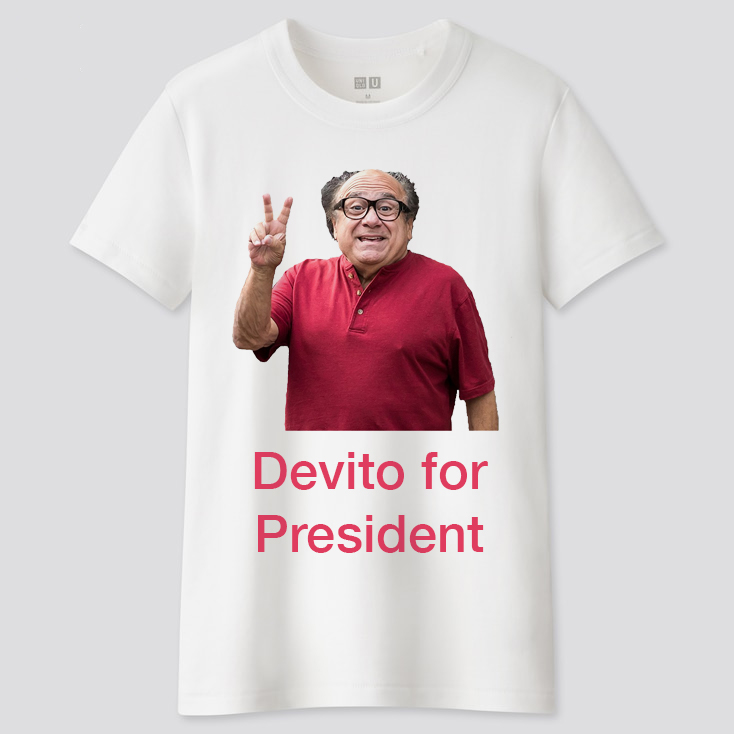
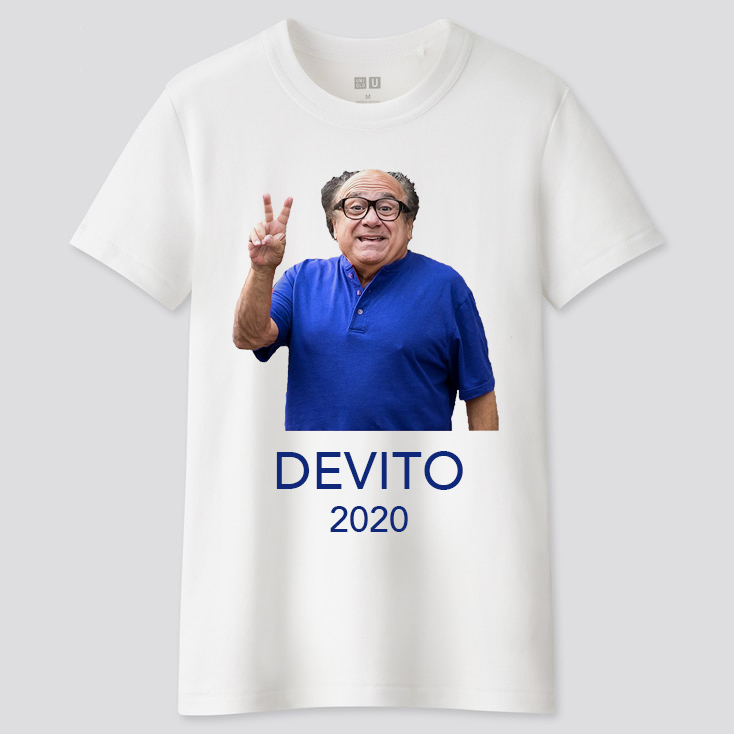
new merch

Changed region(s): [[0.3297, 0.3297, 0.6894, 0.7493]]

diff --git a/events.html b/events.html
@@ -88,13 +88,13 @@ $(window).scroll(function(){
 		switch (s)
 		{
 			case "California": 
-				output.innerHTML = "<section><h1>DeVito 2020 Phonebank in Los Angeles, CA</h1><p> Come together with friends, family, and neighbors to call voters in support of Devito! Phonebanking is one of the most important things you can do to help our campaign win. Every call helps us grow our movement, turn Devito supporters out to vote, and win this election in a landslide.</p></section><section><h1>DeVito 2020 Phonebank in San Fransisco, CA</h1><p> Come together with friends, family, and neighbors to call voters in support of DeVito! Phonebanking is one of the most important things you can do to help our campaign win. Every call helps us grow our movement, turn Devito supporters out to vote, and win this election in a landslide.</p></section><section><h1>Devito 2020 Phonebank in Santa Barbara, CA</h1><p> Come together with friends, family, and neighbors to call voters in support of DeVito! Phonebanking is one of the most important things you can do to help our campaign win. Every call helps us grow our movement, turn Devito supporters out to vote, and win this election in a landslide.</p></section>";
+				output.innerHTML = "<section><h1>DeVito 2020 Phonebank in Los Angeles, CA</h1><p> Come together with friends, family, and neighbors to call voters in support of DeVito! Phonebanking is one of the most important things you can do to help our campaign win. Every call helps us grow our movement, turn DeVito supporters out to vote, and win this election in a landslide.</p></section><section><h1>DeVito 2020 Phonebank in San Fransisco, CA</h1><p> Come together with friends, family, and neighbors to call voters in support of DeVito! Phonebanking is one of the most important things you can do to help our campaign win. Every call helps us grow our movement, turn DeVito supporters out to vote, and win this election in a landslide.</p></section><section><h1>DeVito 2020 Phonebank in Santa Barbara, CA</h1><p> Come together with friends, family, and neighbors to call voters in support of DeVito! Phonebanking is one of the most important things you can do to help our campaign win. Every call helps us grow our movement, turn DeVito supporters out to vote, and win this election in a landslide.</p></section>";
 				break;
 			case "Massachusetts":
-				output.innerHTML = "<section><h1>DeVito 2020 Phonebank in Malden, MA</h1><p> Come together with friends, family, and neighbors to call voters in support of Devito! Phonebanking is one of the most important things you can do to help our campaign win. Every call helps us grow our movement, turn Devito supporters out to vote, and win this election in a landslide.</p></section><section><h1>Devito 2020 Phonebank in Somerville, MA</h1><p> Come together with friends, family, and neighbors to call voters in support of Devito! Phonebanking is one of the most important things you can do to help our campaign win. Every call helps us grow our movement, turn Devito supporters out to vote, and win this election in a landslide.</p></section><section><h1>Devito 2020 Phonebank in Braintree, MA</h1><p> Come together with friends, family, and neighbors to call voters in support of Devito! Phonebanking is one of the most important things you can do to help our campaign win. Every call helps us grow our movement, turn Devito supporters out to vote, and win this election in a landslide.</p></section>";
+				output.innerHTML = "<section><h1>DeVito 2020 Phonebank in Malden, MA</h1><p> Come together with friends, family, and neighbors to call voters in support of DeVito! Phonebanking is one of the most important things you can do to help our campaign win. Every call helps us grow our movement, turn DeVito supporters out to vote, and win this election in a landslide.</p></section><section><h1>DeVito 2020 Phonebank in Somerville, MA</h1><p> Come together with friends, family, and neighbors to call voters in support of DeVito! Phonebanking is one of the most important things you can do to help our campaign win. Every call helps us grow our movement, turn DeVito supporters out to vote, and win this election in a landslide.</p></section><section><h1>DeVito 2020 Phonebank in Braintree, MA</h1><p> Come together with friends, family, and neighbors to call voters in support of DeVito! Phonebanking is one of the most important things you can do to help our campaign win. Every call helps us grow our movement, turn DeVito supporters out to vote, and win this election in a landslide.</p></section>";
 				break;
 			case "New Jersey":
-				output.innerHTML = "<section><h1>Devito 2020 Phonebank in Newark, NJ</h1><p> Come together with friends, family, and neighbors to call voters in support of Devito! Phonebanking is one of the most important things you can do to help our campaign win. Every call helps us grow our movement, turn Devito supporters out to vote, and win this election in a landslide.</p></section><section><h1>Devito 2020 Phonebank in Trenton, NJ</h1><p> Come together with friends, family, and neighbors to call voters in support of Devito! Phonebanking is one of the most important things you can do to help our campaign win. Every call helps us grow our movement, turn Devito supporters out to vote, and win this election in a landslide.</p></section><section><h1>Devito 2020 Phonebank in Paterson, NJ</h1><p> Come together with friends, family, and neighbors to call voters in support of Devito! Phonebanking is one of the most important things you can do to help our campaign win. Every call helps us grow our movement, turn Devito supporters out to vote, and win this election in a landslide.</p></section>";
+				output.innerHTML = "<section><h1>DeVito 2020 Phonebank in Newark, NJ</h1><p> Come together with friends, family, and neighbors to call voters in support of DeVito! Phonebanking is one of the most important things you can do to help our campaign win. Every call helps us grow our movement, turn DeVito supporters out to vote, and win this election in a landslide.</p></section><section><h1>DeVito 2020 Phonebank in Trenton, NJ</h1><p> Come together with friends, family, and neighbors to call voters in support of DeVito! Phonebanking is one of the most important things you can do to help our campaign win. Every call helps us grow our movement, turn DeVito supporters out to vote, and win this election in a landslide.</p></section><section><h1>DeVito 2020 Phonebank in Paterson, NJ</h1><p> Come together with friends, family, and neighbors to call voters in support of DeVito! Phonebanking is one of the most important things you can do to help our campaign win. Every call helps us grow our movement, turn DeVito supporters out to vote, and win this election in a landslide.</p></section>";
 				break;
 			default:
 				output.innerHTML = "";

diff --git a/shop.html b/shop.html
@@ -88,69 +88,123 @@ $(window).scroll(function(){
 
 <div class="grid-container">
   	<div class="card">
-		<img src="images/shop1.jpg" alt="shop 1" style="width:100%">
-		<h2>Vote Danny Button</h2>
+		<img src="images/shop1.jpg" style="width:100%">
+		<h2>Peace Button</h2>
 		<p class="price">$4.00</p>
 		<button>Add to Cart</button>
   	</div>
   	<div class="card">
-  		<img src="images/shop2.jpg" alt="shop 2" style="width:100%">
-		<h2>White Shirt</h2>
+  		<img src="images/shop2.jpg" style="width:100%">
+		<h2> White Shirt </h2>
 		<p class="price">$20.00</p>
 		<button>Add to Cart</button>
 	</div>
 	<div class="card">
-		<img src="images/shop3.jpg" alt="shop 3" style="width:100%">
-		<h2>Black Shirt</h2>
+		<img src="images/shop3.jpg" style="width:100%">
+		<h2> Black Shirt </h2>
 		<p class="price">$20.00</p>
 		<button>Add to Cart</button>
 	</div>  
 	<div class="card">
-		<img src="images/shop4.jpg" alt="shop 4" style="width:100%">
-		<h2>Cap</h2>
-		<p class="price">$15.00</p>
+		<img src="images/shop4.jpg" style="width:100%">
+		<h2> DeVito 2020 Cap </h2>
+		<p class="price">$10.00</p>
 		<button>Add to Cart</button>
 	</div>
 	<div class="card">
-		<img src="images/shop1.jpg" alt="shop 4" style="width:100%">
-		<h2>Classic Danny Button</h2>
-		<p class="price">$1.99</p>
+		<img src="images/shop5.jpg" style="width:100%">
+		<h2>DeVito 2020 Button</h2>
+		<p class="price">$4.00</p>
 		<button>Add to Cart</button>
 	</div>
 	<div class="card">
-		<img src="images/shop1.jpg" alt="shop 4" style="width:100%">
-		<h2>Classic Danny Button</h2>
-		<p class="price">$1.99</p>
+		<img src="images/shop1.jpg" style="width:100%">
+		<h2>Peace Button</h2>
+		<p class="price">$4.00</p>
+		<button>Add to Cart</button>
+  	</div>
+  	<div class="card">
+  		<img src="images/shop2.jpg" style="width:100%">
+		<h2> White Shirt </h2>
+		<p class="price">$20.00</p>
 		<button>Add to Cart</button>
 	</div>
 	<div class="card">
-		<img src="images/shop1.jpg" alt="shop 4" style="width:100%">
-		<h2>Classic Danny Button</h2>
-		<p class="price">$1.99</p>
+		<img src="images/shop3.jpg" style="width:100%">
+		<h2> Black Shirt </h2>
+		<p class="price">$20.00</p>
+		<button>Add to Cart</button>
+	</div>  
+	<div class="card">
+		<img src="images/shop4.jpg" style="width:100%">
+		<h2> DeVito 2020 Cap </h2>
+		<p class="price">$10.00</p>
 		<button>Add to Cart</button>
 	</div>
 	<div class="card">
-		<img src="images/shop1.jpg" alt="shop 4" style="width:100%">
-		<h2>Classic Danny Button</h2>
-		<p class="price">$1.99</p>
+		<img src="images/shop5.jpg" style="width:100%">
+		<h2>DeVito 2020 Button</h2>
+		<p class="price">$4.00</p>
 		<button>Add to Cart</button>
 	</div>
 	<div class="card">
-		<img src="images/shop1.jpg" alt="shop 4" style="width:100%">
-		<h2>Classic Danny Button</h2>
-		<p class="price">$1.99</p>
+		<img src="images/shop1.jpg" style="width:100%">
+		<h2>Peace Button</h2>
+		<p class="price">$4.00</p>
+		<button>Add to Cart</button>
+  	</div>
+  	<div class="card">
+  		<img src="images/shop2.jpg" style="width:100%">
+		<h2> White Shirt </h2>
+		<p class="price">$20.00</p>
 		<button>Add to Cart</button>
 	</div>
 	<div class="card">
-		<img src="images/shop1.jpg" alt="shop 4" style="width:100%">
-		<h2>Classic Danny Button</h2>
-		<p class="price">$1.99</p>
+		<img src="images/shop3.jpg" style="width:100%">
+		<h2> Black Shirt </h2>
+		<p class="price">$20.00</p>
+		<button>Add to Cart</button>
+	</div>  
+	<div class="card">
+		<img src="images/shop4.jpg" style="width:100%">
+		<h2> DeVito 2020 Cap </h2>
+		<p class="price">$10.00</p>
 		<button>Add to Cart</button>
 	</div>
 	<div class="card">
-		<img src="images/shop1.jpg" alt="shop 4" style="width:100%">
-		<h2>Classic Danny Button</h2>
-		<p class="price">$1.99</p>
+		<img src="images/shop5.jpg" style="width:100%">
+		<h2>DeVito 2020 Button</h2>
+		<p class="price">$4.00</p>
+		<button>Add to Cart</button>
+	</div>
+	<div class="card">
+		<img src="images/shop1.jpg" style="width:100%">
+		<h2>Peace Button</h2>
+		<p class="price">$4.00</p>
+		<button>Add to Cart</button>
+  	</div>
+  	<div class="card">
+  		<img src="images/shop2.jpg" style="width:100%">
+		<h2> White Shirt </h2>
+		<p class="price">$20.00</p>
+		<button>Add to Cart</button>
+	</div>
+	<div class="card">
+		<img src="images/shop3.jpg" style="width:100%">
+		<h2> Black Shirt </h2>
+		<p class="price">$20.00</p>
+		<button>Add to Cart</button>
+	</div>  
+	<div class="card">
+		<img src="images/shop4.jpg" style="width:100%">
+		<h2> DeVito 2020 Cap </h2>
+		<p class="price">$10.00</p>
+		<button>Add to Cart</button>
+	</div>
+	<div class="card">
+		<img src="images/shop5.jpg" style="width:100%">
+		<h2>DeVito 2020 Button</h2>
+		<p class="price">$4.00</p>
 		<button>Add to Cart</button>
 	</div>
 </div>
